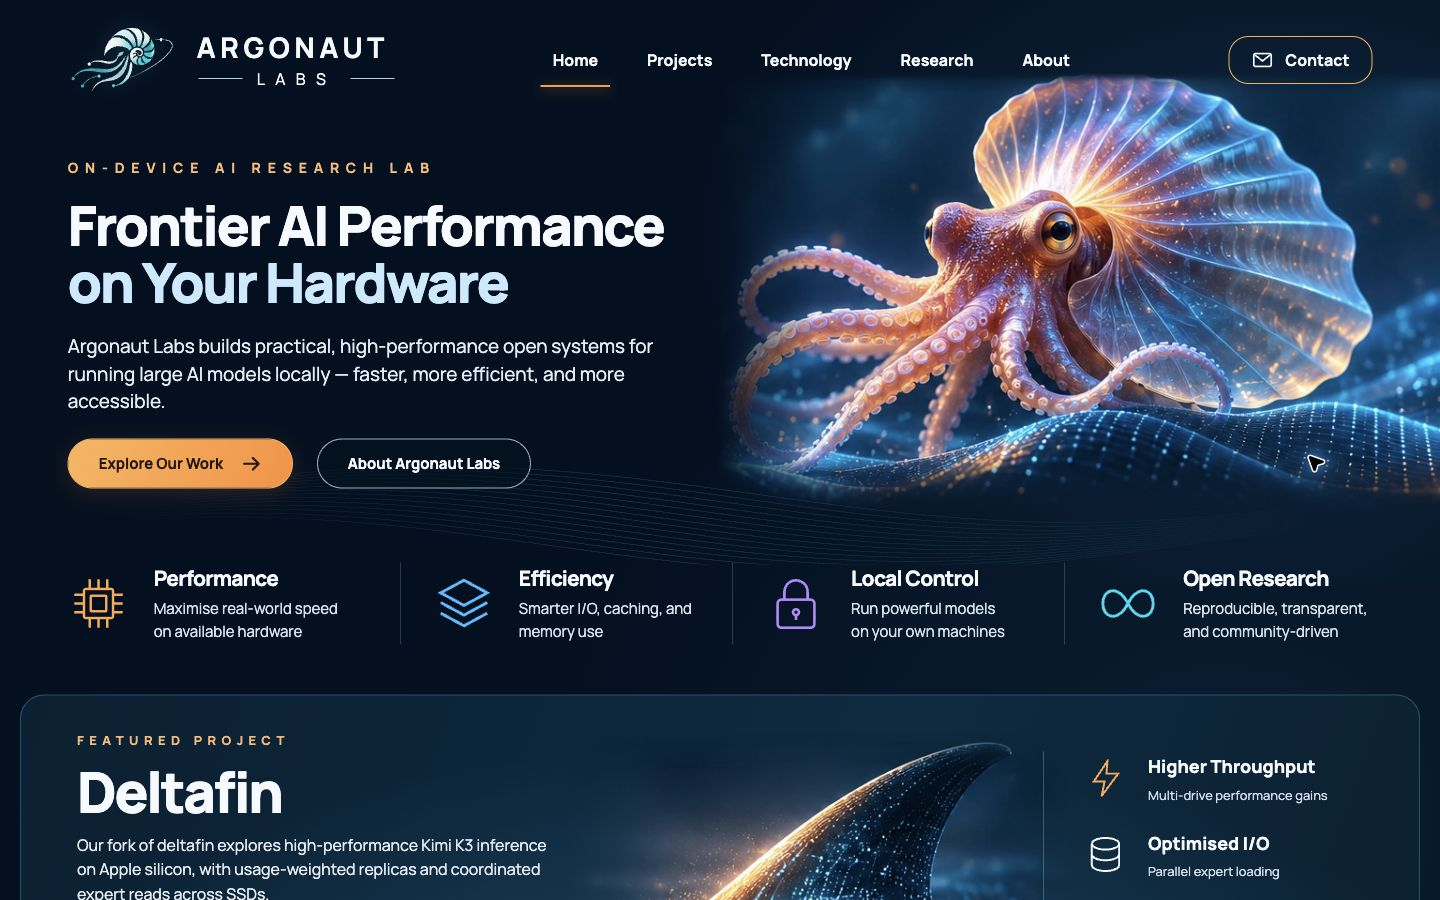
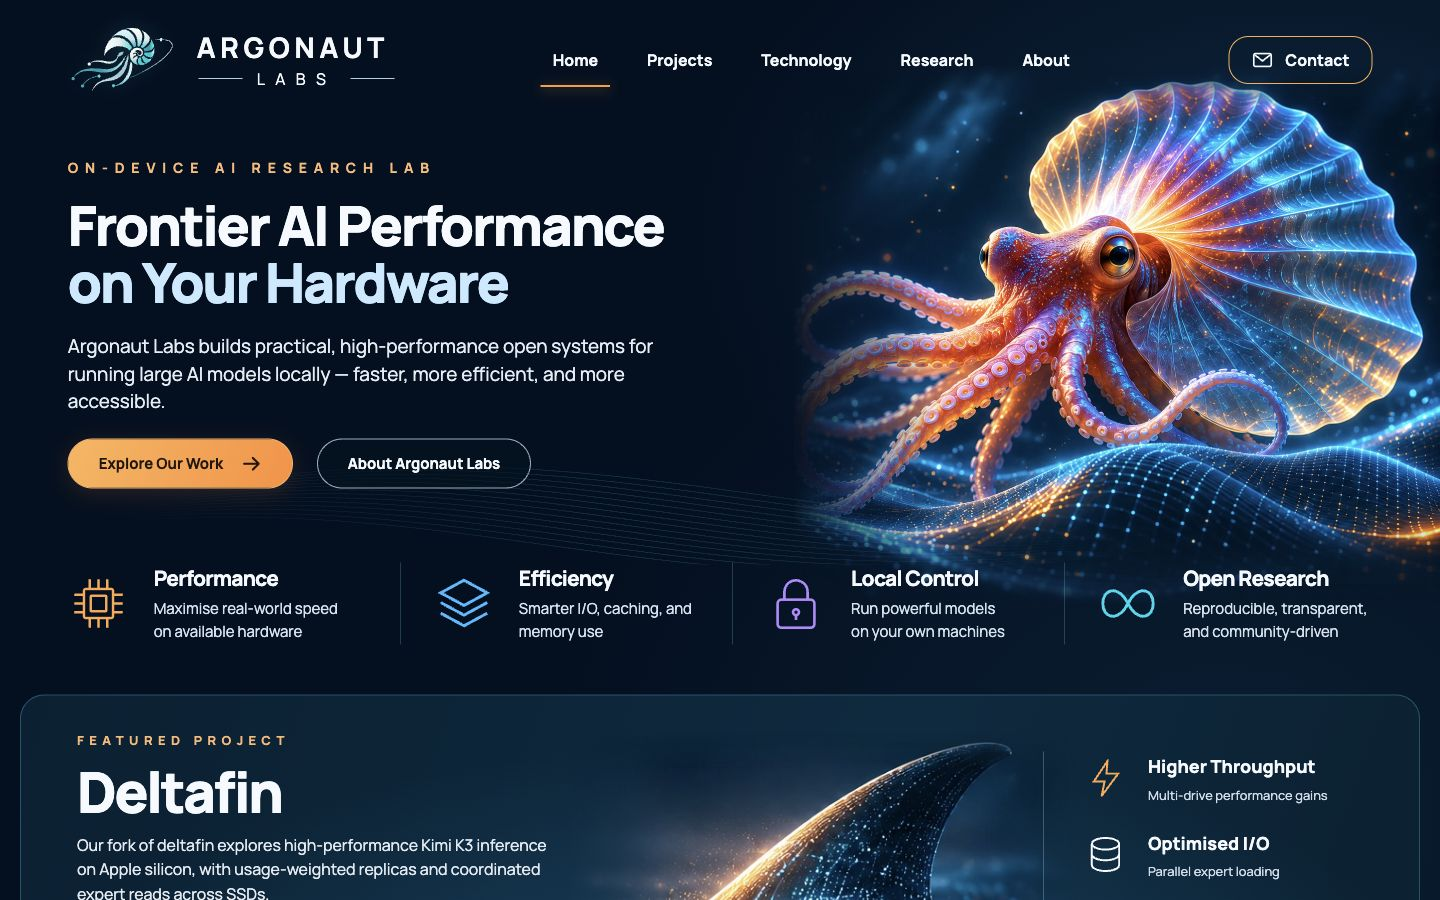
Use full-resolution argonaut hero for approved publication

Changed region(s): [[0.5, 0.0622, 1.0, 0.6844]]

diff --git a/index.html b/index.html
@@ -1,4 +1,5 @@
 <!DOCTYPE html>
+
 <html lang="en"><head><meta charset="utf-8"/><meta content="width=device-width,initial-scale=1" name="viewport"/><meta content="dark" name="color-scheme"/><title>Argonaut Labs — Frontier AI Performance on Your Hardware</title><meta content="Open research in local AI inference: Kimi K3.1 on a single 96 GB GPU, Kimi K3 with Deltafin, DeepSeek V4.1 and GLM-5.3. Explore code, benchmarks and Argodrive." name="description"/><link href="https://argonautlabs.ai/" rel="canonical"/><link href="assets/cinematic/favicon.svg" rel="icon"/><link href="styles.css?v=20261106-bronze" rel="stylesheet"/><link href="assets/engine-diagram.css?v=20261107b" rel="stylesheet"/><link href="assets/workstation.css?v=20261106-compact" rel="stylesheet"/><script defer="" src="assets/engine-diagram.js?v=20261106-1"></script><meta content="website" property="og:type"/><meta content="Argonaut Labs" property="og:site_name"/><meta content="Argonaut Labs — Frontier AI Performance on Your Hardware" property="og:title"/><meta content="Open research in local AI inference: Kimi K3.1 on a single 96 GB GPU, Kimi K3 with Deltafin, DeepSeek V4.1 and GLM-5.3. Explore code, benchmarks and Argodrive." property="og:description"/><meta content="https://argonautlabs.ai/" property="og:url"/><meta content="https://argonautlabs.ai/assets/og-kimi-k31.png?v=20261106-bronze" property="og:image"/><meta content="summary_large_image" name="twitter:card"/><meta content="Argonaut Labs — Frontier AI Performance on Your Hardware" name="twitter:title"/><meta content="Open research in local AI inference: Kimi K3.1 on a single 96 GB GPU, Kimi K3 with Deltafin, DeepSeek V4.1 and GLM-5.3. Explore code, benchmarks and Argodrive." name="twitter:description"/><meta content="https://argonautlabs.ai/assets/og-kimi-k31.png?v=20261106-bronze" name="twitter:image"/><script type="application/ld+json">{"@context": "https://schema.org", "@graph": [{"@type": "Organization", "name": "Argonaut Labs", "url": "https://argonautlabs.ai/", "logo": "https://argonautlabs.ai/assets/cinematic/brand-icon.svg", "sameAs": ["https://github.com/argonautlabsai"]}, {"@type": "WebSite", "name": "Argonaut Labs", "url": "https://argonautlabs.ai/", "description": "Open research in local AI inference: Kimi K3.1 on a single 96 GB GPU, Kimi K3 with Deltafin, DeepSeek V4.1 and GLM-5.3. Explore code, benchmarks and Argodrive."}]}</script><meta content="#020f20" name="theme-color"/><link href="assets/cinematic/fonts.css" rel="stylesheet"/><link href="assets/cinematic/home.css" rel="stylesheet"/></head><body class="al-home"><a class="skip" href="#main">Skip to content</a><header class="al-header" id="top">
 <a aria-label="Argonaut Labs homepage" class="al-brand" href="#overview">
 <img alt="" class="al-brand-symbol" height="100" src="assets/cinematic/brand-icon.svg" width="100"/>
@@ -16,7 +17,7 @@
 </header><main id="main"><section aria-labelledby="hero-title" class="al-hero" id="overview">
 <div class="al-hero-aura"></div>
 <div aria-hidden="true" class="al-hero-mesh"></div>
-<div aria-hidden="true" class="al-hero-art"><img alt="" aria-hidden="true" class="al-hero-creature" fetchpriority="high" height="490" src="assets/cinematic/argonaut-hero.webp" width="886"/></div>
+<div aria-hidden="true" class="al-hero-art"><img alt="" aria-hidden="true" class="al-hero-creature" fetchpriority="high" height="1086" src="assets/cinematic/argonaut-hero.webp" width="1448"/></div>
 <div class="al-hero-content">
 <p class="al-eyebrow">ON-DEVICE AI RESEARCH LAB</p>
 <h1 id="hero-title">Frontier AI Performance<br/><span>on Your Hardware</span></h1>

diff --git a/assets/cinematic/home.css b/assets/cinematic/home.css
@@ -48,9 +48,9 @@ html { scroll-padding-top: 24px; }
 .al-hero-description { margin: 22px 0 24px; max-width: 610px; font-size: 19px; line-height: 1.45; color: #e2ecf5; }
 .al-hero-aura { position: absolute; inset: -120px 0 -30px; background: radial-gradient(ellipse 52% 85% at 89% 40%, #07537b5c, transparent 80%); pointer-events: none; }
 .al-hero-art { position: absolute; z-index: 1; inset: -55px 0 -50px; overflow: hidden; pointer-events: none; }
-.al-hero-creature { position: absolute; right: 0; top: 0; width: 57.68%; height: auto; pointer-events: none;
-  /* The supplied crop includes edge text. Keep that area fully transparent. */
-  mask-image: linear-gradient(to right, transparent 0 13%, #000 25%), linear-gradient(to bottom, transparent 0 8px, #000 16px 87%, transparent 100%);
+.al-hero-creature { position: absolute; right: 0; top: 0; width: auto; max-width: 57.68%; height: 100%; object-fit: contain; object-position: right center; pointer-events: none;
+  /* Blend the full-resolution illustration into the page without distorting it. */
+  mask-image: linear-gradient(to right, transparent 0 10%, #000 30%), linear-gradient(to bottom, transparent 0, #000 8% 85%, transparent 100%);
   mask-composite: intersect;
 }
 .al-hero-mesh { position: absolute; left: 0; right: 0; bottom: -10px; height: 140px; background: url("data-wave.svg") center bottom / 100% 100% no-repeat; opacity: .6; pointer-events: none; }
@@ -146,7 +146,7 @@ html { scroll-padding-top: 24px; }
   .al-hero h1 { white-space: normal; font-size: clamp(42px, 6vw, 58px); max-width: 720px; }
   .al-hero-description { max-width: 540px; }
   .al-hero-art { inset: 0 0 -50px; }
-  .al-hero-creature { top: 230px; width: 75%; right: -2%; }
+  .al-hero-creature { top: 230px; width: 75%; max-width: none; height: auto; right: -2%; }
   .al-pillars { grid-template-columns: repeat(2, 1fr); padding-top: 20px; gap: 25px; }
   .al-pillar { gap: 20px; }
   .al-pillar:nth-child(3) { padding-left: 0; border: 0; }
@@ -179,7 +179,7 @@ html { scroll-padding-top: 24px; }
   .al-hero-description { font-size: 15px; line-height: 1.65; margin-block: 20px 24px; }
   .al-hero-actions { gap: 12px; }
   .al-hero-actions .al-btn { min-height: 48px; padding: 11px 16px; gap: 11px; font-size: 12px; }
-  .al-hero-creature { top: 385px; width: 125%; max-width: none; right: -18%; }
+  .al-hero-creature { top: 355px; width: 115%; max-width: none; right: -12%; }
   .al-hero-mesh { bottom: -20px; opacity: .3; }
   .al-pillars { padding: 18px 24px 38px; gap: 28px 18px; }
   .al-pillar { gap: 10px; align-items: flex-start; }
@@ -207,5 +207,5 @@ html { scroll-padding-top: 24px; }
   .al-home .research-card { padding: 24px; }
   .al-home footer { padding-block: 30px; }
 }
-@media (max-width: 370px) { .al-header { gap: 7px; padding-inline: 14px; } .al-brand-symbol { width: 49px; } .al-brand-text strong { font-size: 15px; } .al-hero { min-height: 730px; } .al-hero-creature { top: 450px; } }
+@media (max-width: 370px) { .al-header { gap: 7px; padding-inline: 14px; } .al-brand-symbol { width: 49px; } .al-brand-text strong { font-size: 15px; } .al-hero { min-height: 730px; } .al-hero-creature { top: 410px; } }
 @media (prefers-reduced-motion: reduce) { html { scroll-behavior: auto; } .al-btn { transition: none; } }

diff --git a/docs/design/cinematic-homepage-2026-11-07/README.md b/docs/design/cinematic-homepage-2026-11-07/README.md
@@ -1,13 +1,13 @@
 # Cinematic homepage redesign — review
 
-Implements the supplied, approved Argonaut Labs homepage mockup in the existing GitHub Pages site. This branch is for review; merging into `main` publishes through the existing Pages configuration.
+Implements the supplied, approved Argonaut Labs homepage mockup in the existing GitHub Pages site. The user approved publication after review; merging into `main` publishes through the existing Pages configuration.
 
 ## Changes
 
 - Midnight navy homepage, the original shell/tentacle/orbit brand, luminous argonaut hero, amber calls to action, horizontal desktop navigation and a keyboard-friendly mobile menu.
-- Four value pillars and a Deltafin feature panel using the supplied illustrations, compressed to WebP. New text and controls are real HTML.
+- Four value pillars and a Deltafin feature panel using the supplied illustrations, compressed to WebP. The hero now uses the cleaner 1448 × 1086 source supplied after review (346,764-byte WebP from a 2,615,628-byte PNG). New text and controls are real HTML.
 - The complete existing research, measured results, hardware photograph, engine diagram, Argodrive section, credits and footer remain below the new opening. Their homepage presentation follows the new palette.
-- Homepage-only CSS and JavaScript live in `assets/cinematic/`. The Manrope font is self-hosted with its OFL license. New runtime assets total 281,244 bytes; no framework, tracking service or runtime CDN was added.
+- Homepage-only CSS and JavaScript live in `assets/cinematic/`. The Manrope font is self-hosted with its OFL license. New runtime assets total 498,424 bytes; no framework, tracking service or runtime CDN was added.
 
 ## Preservation and validation
 
@@ -31,7 +31,7 @@ Machine-readable check summary: [validation.json](validation.json).
 
 - Uses the provided original-brand vector rather than turning the illustrated hero creature into the logo.
 - Uses dark text on amber buttons for contrast instead of the mockup's white button text.
-- Illustrations are blended with CSS masks to remove text remnants in the supplied crops. Mobile artwork and feature content reflow instead of shrinking a screenshot.
+- The full-resolution hero is blended into the background with CSS masks; the fin mask removes edge text remnants from its supplied crop. Mobile artwork and feature content reflow instead of shrinking a screenshot.
 - Keeps the existing research pages' own presentation and public URLs intact. The new style is scoped to the homepage.
 
 ## Previews
